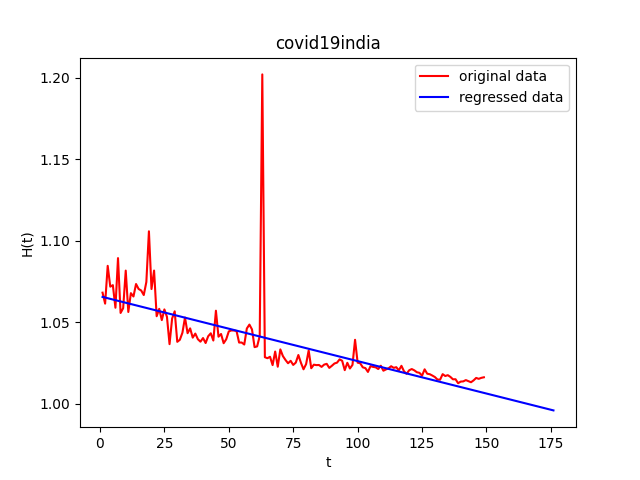
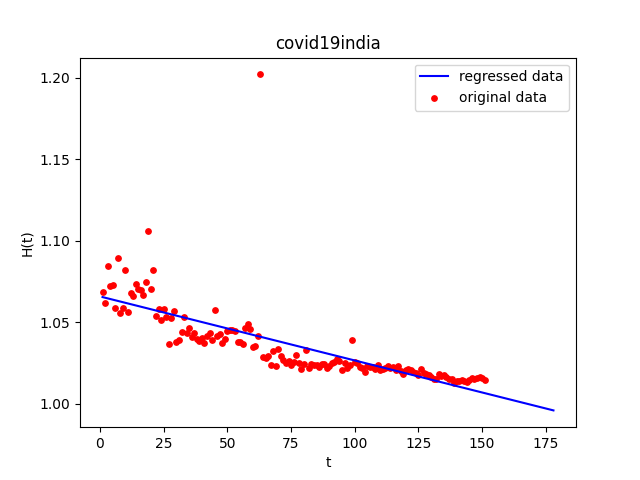
Updated Task 5

diff --git a/outlab 4/task5/task5.py b/outlab 4/task5/task5.py
@@ -14,7 +14,7 @@ for i in range(len(data)):
 y = np.array([float(data[i][6])/float(data[i-1][6]) for i in range(loc, len(data))])
 x = np.arange(1, len(data)-loc+1)
 
-plt.plot(x, y, 'r', label="original data")
+plt.scatter(x, y, s = 15, c='red', label="original data")
 
 slope, intercept, a, b, c = stats.linregress(x, y)
 ans = int(np.ceil((1-intercept)/slope))
